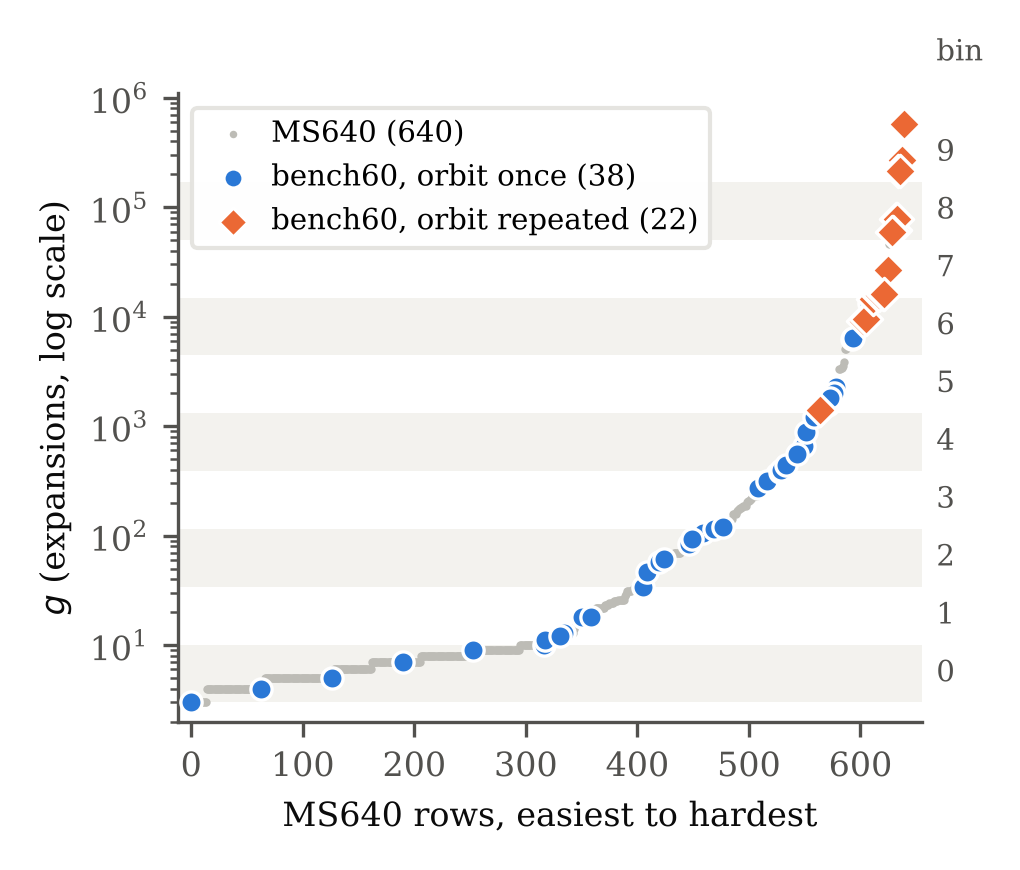
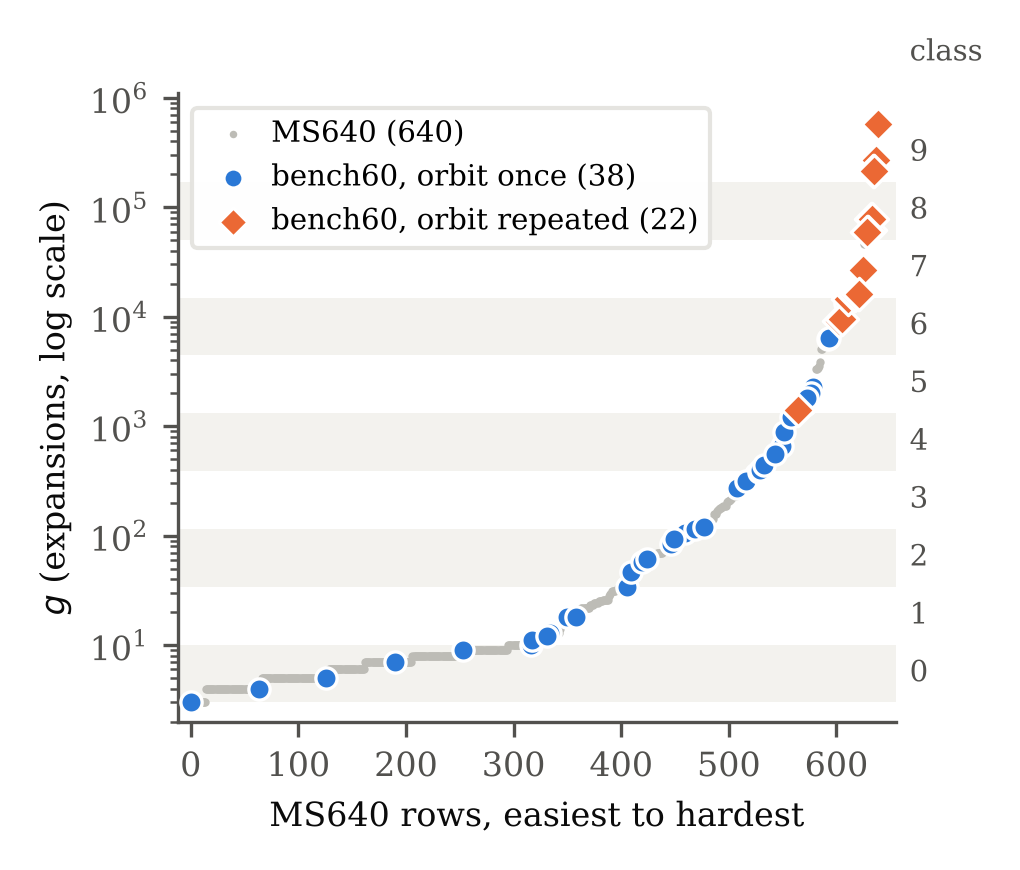
paper: bench60 figures say 'difficulty class' instead of 'bin'; keep their script in figsrc/
Claude-Session: https://claude.ai/code/session_01AdAbRuZRQ5MkX3g2nL8FXv

diff --git a/paper/figsrc/bench60_figs.py b/paper/figsrc/bench60_figs.py
@@ -1,0 +1,42 @@
+import csv, collections, math
+import matplotlib; matplotlib.use('Agg')
+import matplotlib.pyplot as plt
+import os
+B=os.path.join(os.path.dirname(os.path.abspath(__file__)),'..','..','benchmark')+'/'
+allr=list(csv.DictReader(open(B+'difficulty_bins.csv')))
+sub=list(csv.DictReader(open(B+'subsets/benchmark_subset_60.csv')))
+rank={int(r['pres_id']):int(r['difficulty_rank']) for r in allr}
+cnt=collections.Counter(s['aut_class'] for s in sub)
+edges=sorted({int(r['bin_lo_nodes']) for r in allr}|{int(r['bin_hi_nodes']) for r in allr})
+INK='#0b0b0b'; INK2='#52514e'; GRID='#e4e3df'; GREY='#bdbcb6'; BLUE='#2a78d6'; ORANGE='#eb6834'; BAND='#f3f2ee'
+plt.rcParams.update({'font.size':8,'font.family':'serif','axes.edgecolor':INK2,'axes.labelcolor':INK,
+  'xtick.color':INK2,'ytick.color':INK2,'axes.spines.top':False,'axes.spines.right':False})
+uniq=[s for s in sub if cnt[s['aut_class']]==1]; rep=[s for s in sub if cnt[s['aut_class']]>1]
+def picks(ax,fx,fy):
+    ax.scatter([fx(s) for s in uniq],[fy(s) for s in uniq],s=26,c=BLUE,edgecolors='white',linewidths=0.8,zorder=3,label=f'bench60, orbit once ({len(uniq)})')
+    ax.scatter([fx(s) for s in rep],[fy(s) for s in rep],s=30,marker='D',c=ORANGE,edgecolors='white',linewidths=0.8,zorder=3,label=f'bench60, orbit repeated ({len(rep)})')
+def legend(ax,loc):
+    ax.legend(loc=loc,frameon=True,framealpha=0.95,edgecolor=GRID,fontsize=7,handletextpad=0.3,borderpad=0.4,markerscale=0.9)
+W,H=3.4,2.9
+# left: g against rank, horizontal bands = difficulty classes
+f,ax=plt.subplots(figsize=(W,H))
+for i in range(10):
+    if i%2==0: ax.axhspan(edges[i],edges[i+1],color=BAND,zorder=0,lw=0)
+    ax.text(668,math.sqrt(edges[i]*edges[i+1]),str(i),va='center',ha='left',fontsize=7,color=INK2,clip_on=False)
+ax.text(668,2.2e6,'class',ha='left',fontsize=7,color=INK2,clip_on=False)
+ax.scatter([int(r['difficulty_rank']) for r in allr],[int(r['nodes_explored']) for r in allr],s=4,c=GREY,lw=0,zorder=2,label='MS640 (640)')
+picks(ax,lambda s:rank[int(s['pres_id'])],lambda s:int(s['nodes_1M']))
+ax.set_yscale('log'); ax.set_ylim(2,1.1e6); ax.set_xlim(-12,655)
+ax.set_xlabel('MS640 rows, easiest to hardest'); ax.set_ylabel('$g$ (expansions, log scale)')
+legend(ax,'upper left'); f.tight_layout(); f.savefig('bench60_g.png',dpi=300); plt.close(f)
+# right: path length against g, vertical bands = difficulty classes
+f,ax=plt.subplots(figsize=(W,H))
+for i in range(10):
+    if i%2==0: ax.axvspan(edges[i],edges[i+1],color=BAND,zorder=0,lw=0)
+    ax.text(math.sqrt(edges[i]*edges[i+1]),1250,str(i),ha='center',va='bottom',fontsize=7,color=INK2,clip_on=False)
+ax.scatter([int(r['nodes_explored']) for r in allr],[int(r['path_length']) for r in allr],s=4,c=GREY,lw=0,zorder=2,label='MS640 (640)')
+picks(ax,lambda s:int(s['nodes_1M']),lambda s:int(s['path_1M']))
+ax.set_xscale('log'); ax.set_yscale('log'); ax.set_xlim(2,1.1e6); ax.set_ylim(1.5,1100)
+ax.set_xlabel('$g$ (expansions, log scale)\nbands: difficulty classes 0–9'); ax.set_ylabel('Path length (S-moves, log scale)')
+legend(ax,'lower right'); f.tight_layout(); f.savefig('bench60_path.png',dpi=300); plt.close(f)
+print(edges)
